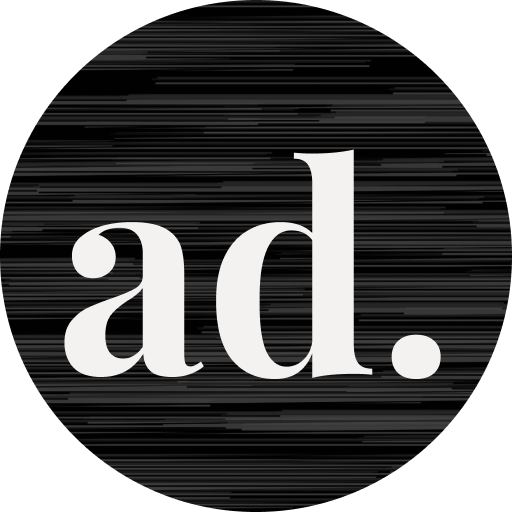
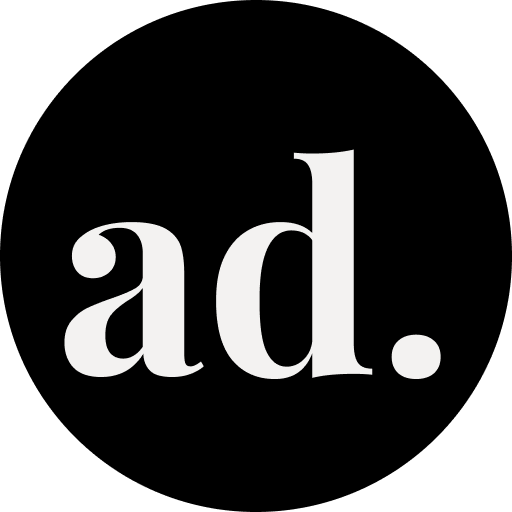
style: update branding

diff --git a/src/@types/__generated__/SideBarQuery.d.ts b/src/@types/__generated__/SideBarQuery.d.ts
@@ -43,30 +43,11 @@ export interface SideBarQuery_sideBarData {
   readonly externalLinks: ReadonlyArray<SideBarQuery_sideBarData_externalLinks | null> | null;
 }
 
-export interface SideBarQuery_profileBackgroundImage_childImageSharp_fluid {
-  readonly tracedSVG: string | null;
-  readonly aspectRatio: number;
-  readonly src: string;
-  readonly srcSet: string;
-  readonly srcWebp: string | null;
-  readonly srcSetWebp: string | null;
-  readonly sizes: string;
-}
-
-export interface SideBarQuery_profileBackgroundImage_childImageSharp {
-  readonly fluid: SideBarQuery_profileBackgroundImage_childImageSharp_fluid | null;
-}
-
-export interface SideBarQuery_profileBackgroundImage {
-  readonly childImageSharp: SideBarQuery_profileBackgroundImage_childImageSharp | null;
-}
-
 export interface SideBarQuery_brandingLink {
   readonly destination: string | null;
 }
 
 export interface SideBarQuery {
   readonly sideBarData: SideBarQuery_sideBarData | null;
-  readonly profileBackgroundImage: SideBarQuery_profileBackgroundImage | null;
   readonly brandingLink: SideBarQuery_brandingLink | null;
 }

diff --git a/src/components/Global/SideBar/index.tsx b/src/components/Global/SideBar/index.tsx
@@ -17,7 +17,7 @@ import tw, { css } from 'twin.macro';
 const staticStudioLogoText = `KD.`;
 
 export const SideBar = (): ReactElement => {
-  const { sideBarData, profileBackgroundImage, brandingLink } = useSideBarQueryData();
+  const { sideBarData, brandingLink } = useSideBarQueryData();
 
   const {
     dimensions: {
@@ -64,7 +64,7 @@ export const SideBar = (): ReactElement => {
             justifyContent="justify-center"
             css={[
               css`
-                background: url(${profileBackgroundImage?.childImageSharp?.fluid?.src}) no-repeat center;
+                background-color: ${colors.primary.default};
               `,
               tw`mb-4 rounded-full w-40 h-40 md:w-48 md:h-48`,
             ]}

diff --git a/src/components/Global/SideBar/useSideBarQueryData.tsx b/src/components/Global/SideBar/useSideBarQueryData.tsx
@@ -25,13 +25,6 @@ export const useSideBarQueryData = (): SideBarQuery => {
           displayText
         }
       }
-      profileBackgroundImage: file(relativePath: { eq: "profile-background.png" }) {
-        childImageSharp {
-          fluid(maxWidth: 192, quality: 100) {
-            ...GatsbyImageSharpFluid_withWebp_tracedSVG
-          }
-        }
-      }
       brandingLink: contentfulLink(id: { eq: "5e2725b8-75c7-5c4b-86f1-3caa0f3df31e" }) {
         destination
       }
